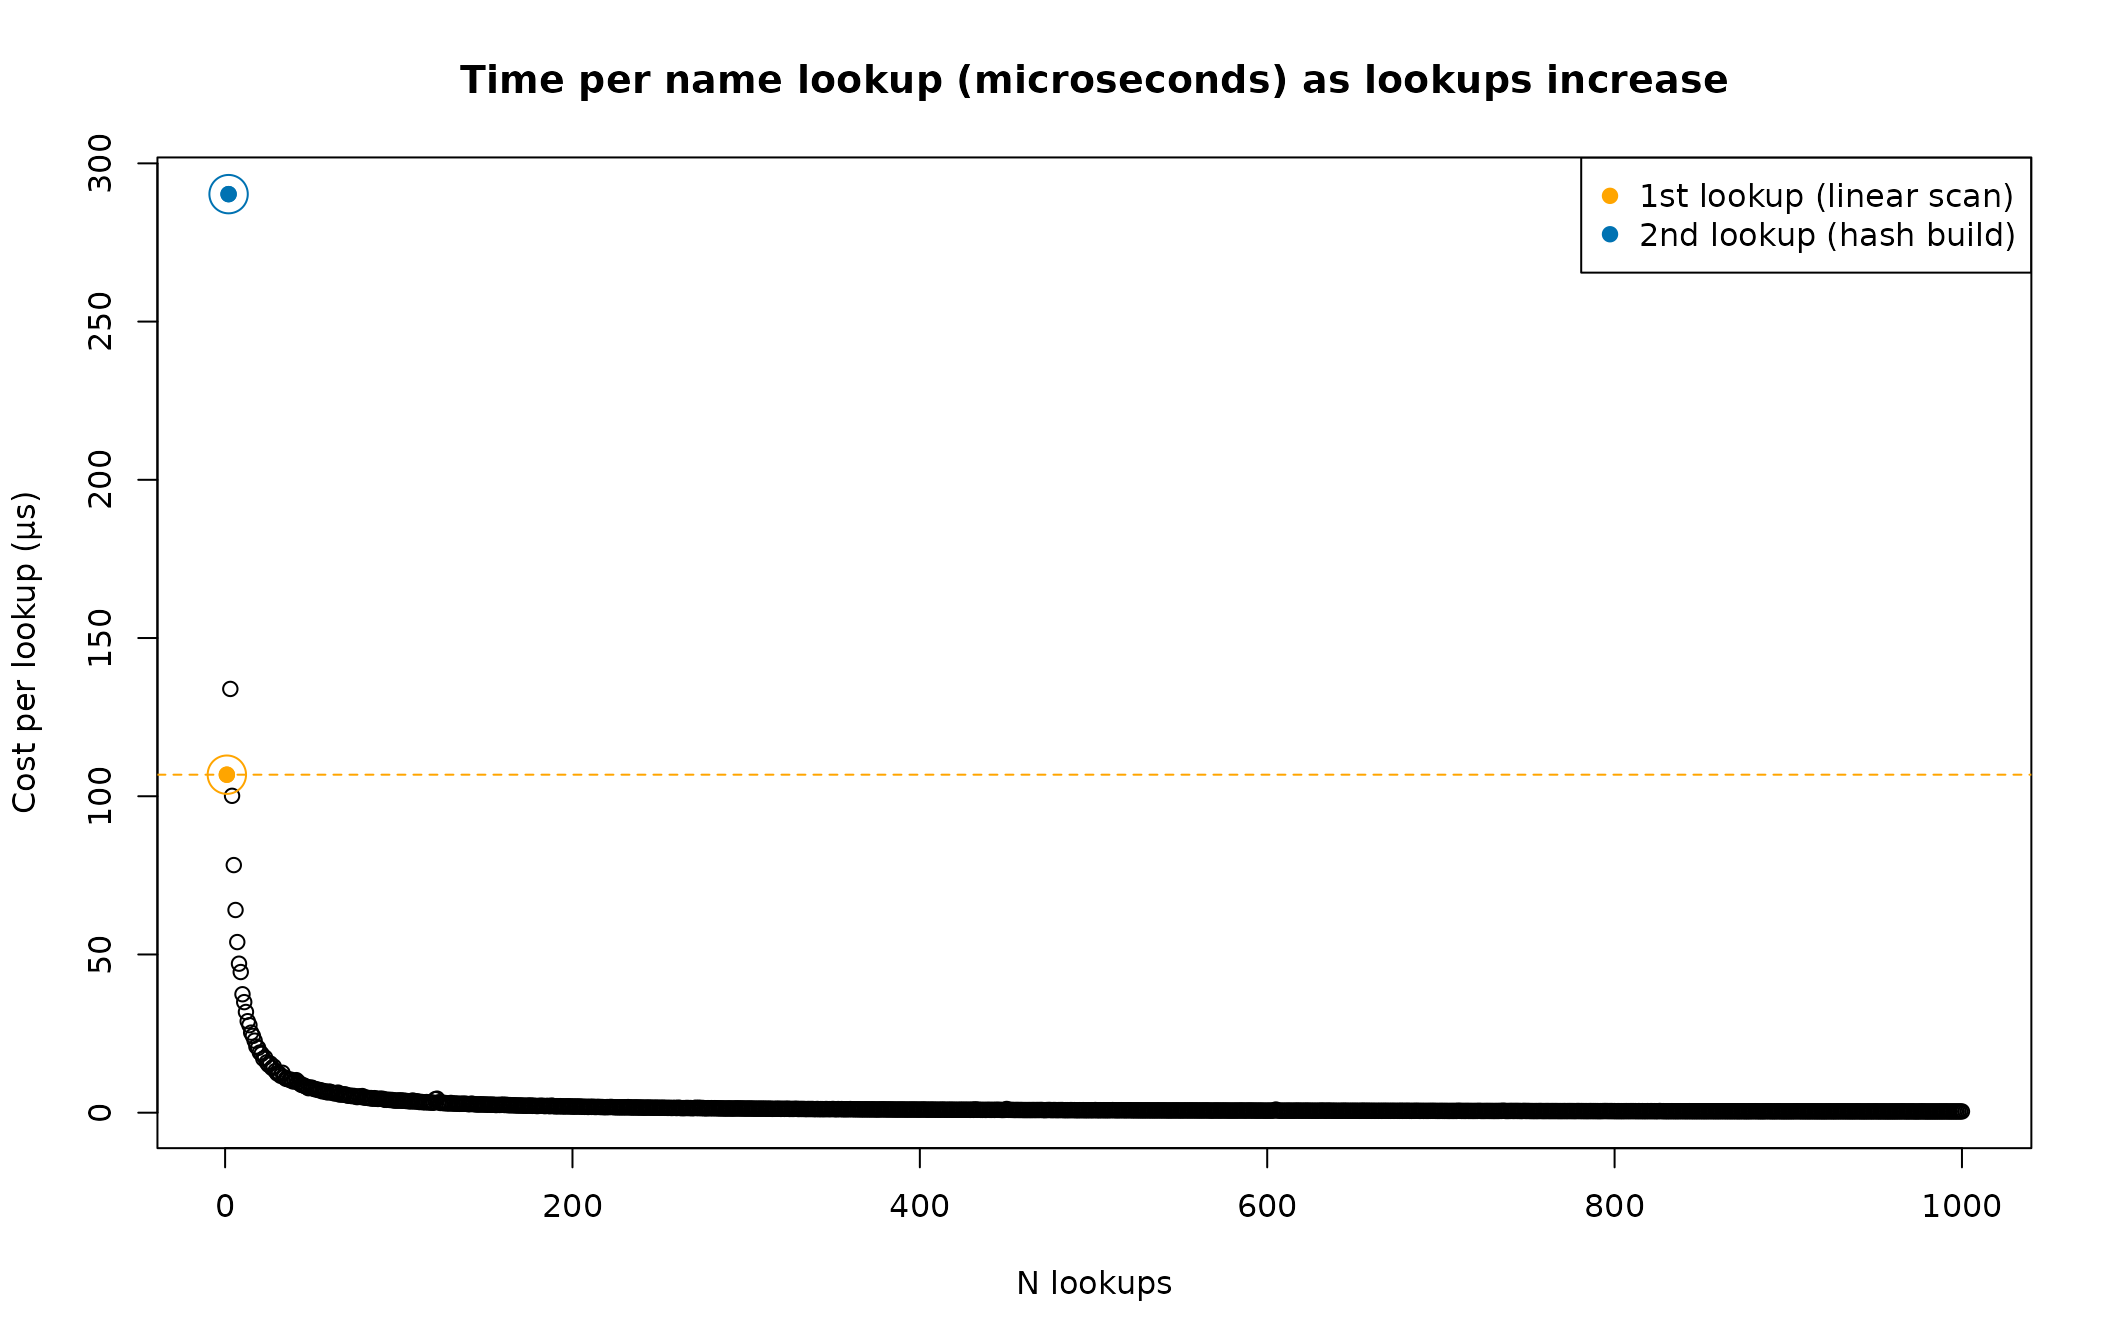
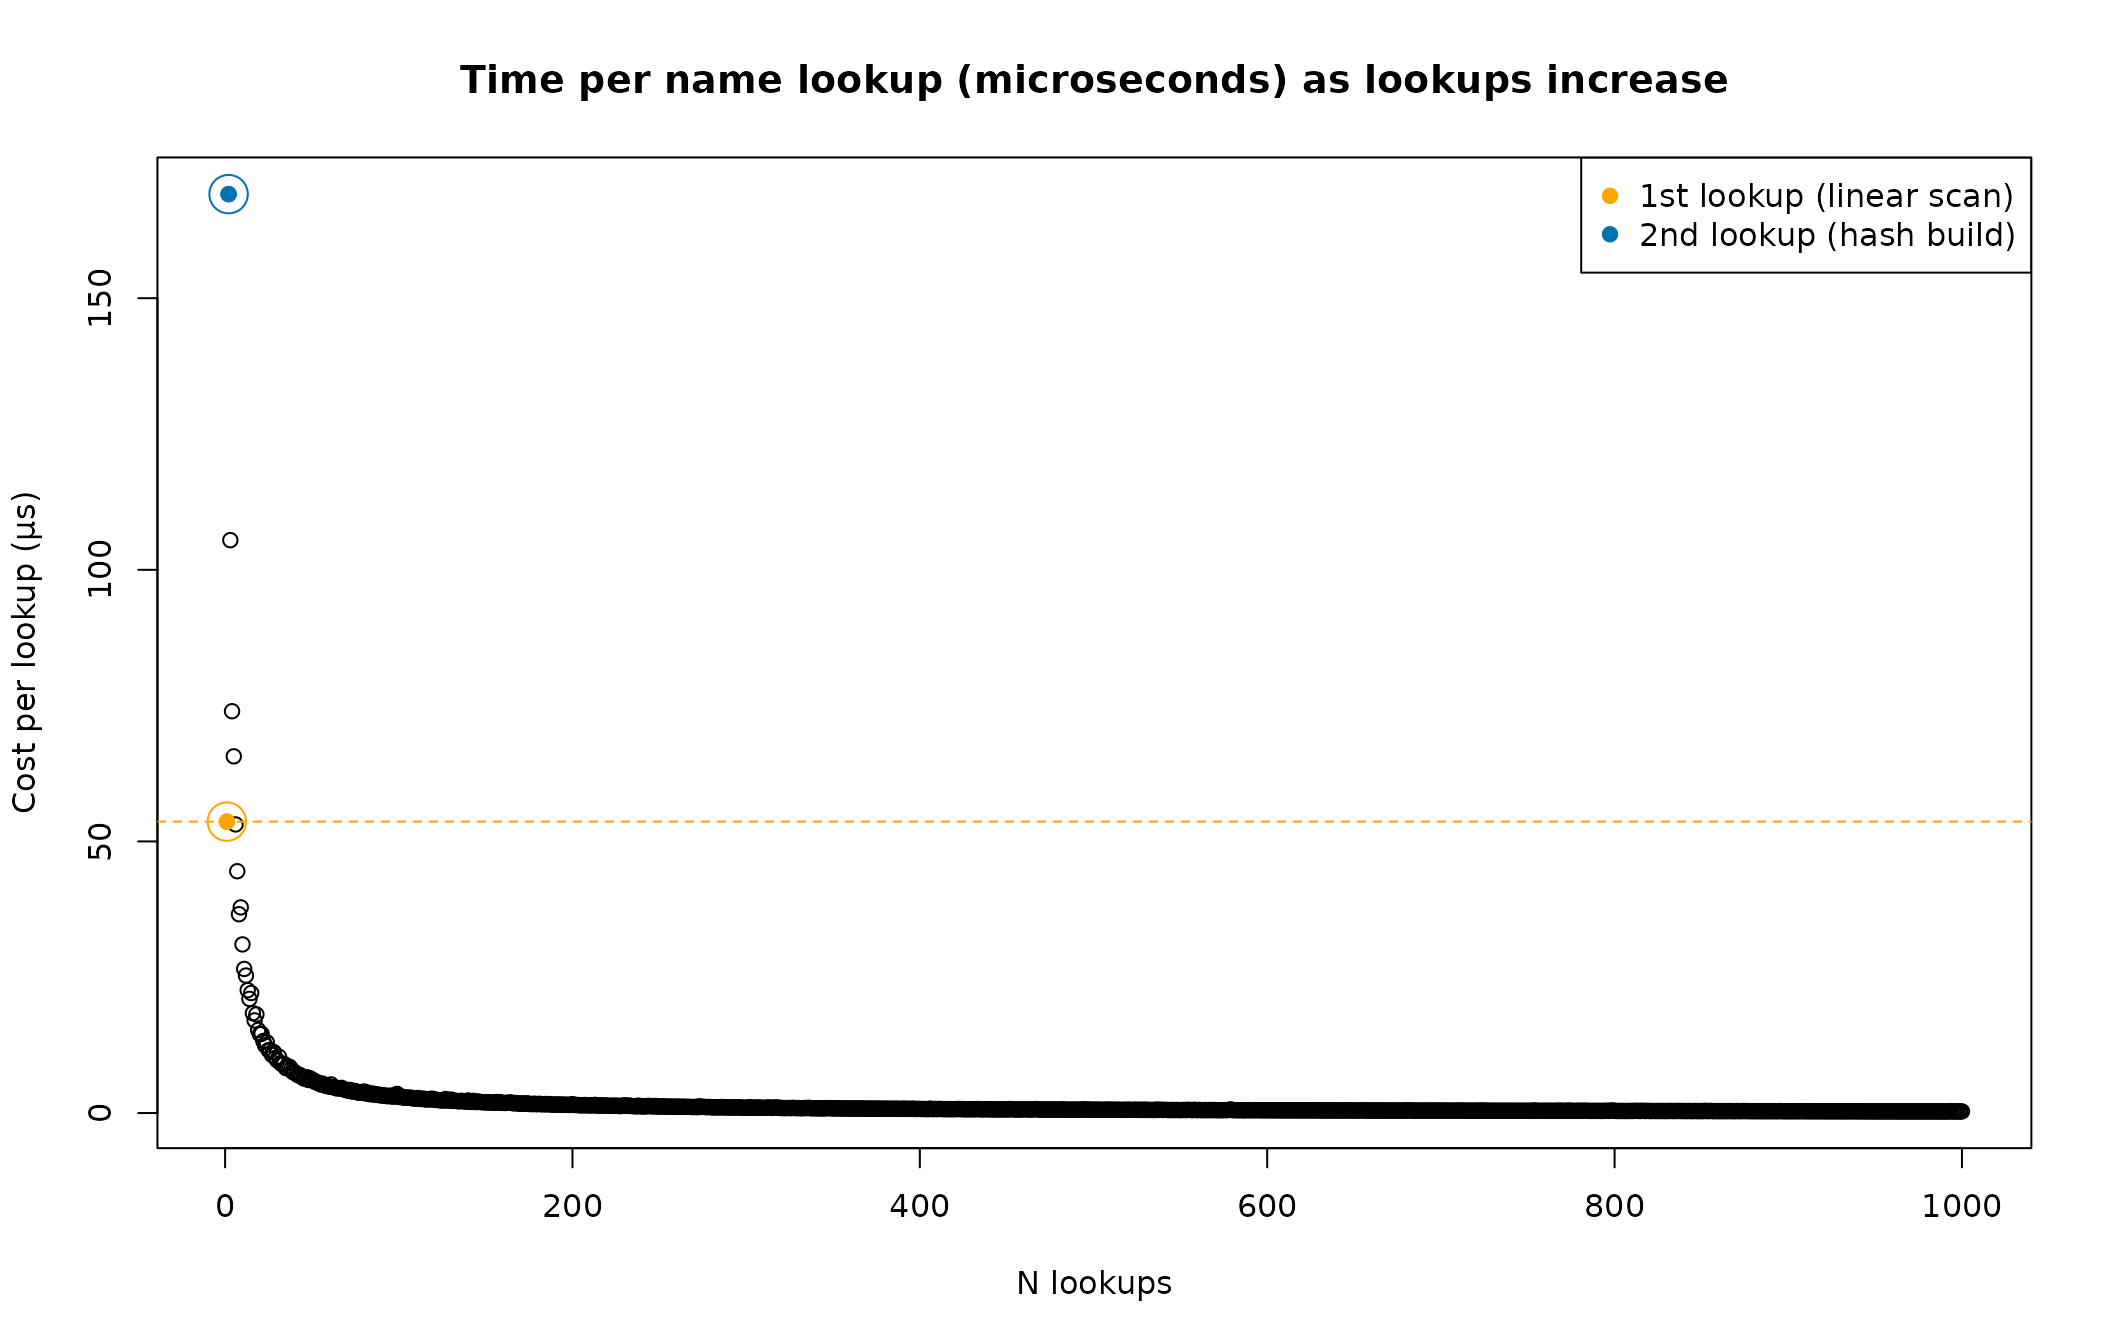
Deploying to gh-pages from @ NicChr/cppally@b370fff97d7429d7e12ec0e2a84aee7f6b70df76 🚀

diff --git a/articles/protection.html b/articles/protection.html
@@ -144,12 +144,12 @@ optimisations.</p>
 <div class="sourceCode" id="cb4"><pre class="downlit sourceCode r">
 <code class="sourceCode R"><span><span class="va">insert_release_cpp11</span> <span class="op">&lt;-</span> <span class="fu"><a href="https://rdrr.io/r/base/lapply.html" class="external-link">replicate</a></span><span class="op">(</span><span class="fl">10</span><span class="op">^</span><span class="fl">4</span>, <span class="fu">bench_protect_insert_release_cpp11</span><span class="op">(</span><span class="fl">10</span><span class="op">^</span><span class="fl">4</span><span class="op">)</span><span class="op">)</span> </span>
 <span><span class="fu"><a href="https://rdrr.io/r/base/mean.html" class="external-link">mean</a></span><span class="op">(</span><span class="va">insert_release_cpp11</span><span class="op">)</span></span>
-<span><span class="co">#&gt; [1] 39.73271</span></span>
+<span><span class="co">#&gt; [1] 36.86888</span></span>
 <span><span class="va">insert_release_cppally</span> <span class="op">&lt;-</span> <span class="fu"><a href="https://rdrr.io/r/base/lapply.html" class="external-link">replicate</a></span><span class="op">(</span><span class="fl">10</span><span class="op">^</span><span class="fl">4</span>, <span class="fu">bench_protect_insert_release_cppally</span><span class="op">(</span><span class="fl">10</span><span class="op">^</span><span class="fl">4</span><span class="op">)</span><span class="op">)</span></span>
 <span><span class="fu"><a href="https://rdrr.io/r/base/mean.html" class="external-link">mean</a></span><span class="op">(</span><span class="va">insert_release_cppally</span><span class="op">)</span></span>
-<span><span class="co">#&gt; [1] 14.09017</span></span></code></pre></div>
-<p>On my machine, cpp11 performs an insert &amp; release every ~40
-nanoseconds. cppally performs better, with ~14 nanoseconds per insert
+<span><span class="co">#&gt; [1] 11.82224</span></span></code></pre></div>
+<p>On my machine, cpp11 performs an insert &amp; release every ~37
+nanoseconds. cppally performs better, with ~12 nanoseconds per insert
 &amp; release.</p>
 <p><strong>Copy benchmark</strong></p>
 <div class="sourceCode" id="cb5"><pre class="sourceCode cpp"><code class="sourceCode cpp"><span id="cb5-1"><a href="#cb5-1" tabindex="-1"></a></span>
@@ -195,12 +195,12 @@ nanoseconds. cppally performs better, with ~14 nanoseconds per insert
 <div class="sourceCode" id="cb7"><pre class="downlit sourceCode r">
 <code class="sourceCode R"><span><span class="va">copy_sexp_cpp11</span> <span class="op">&lt;-</span> <span class="fu"><a href="https://rdrr.io/r/base/lapply.html" class="external-link">replicate</a></span><span class="op">(</span><span class="fl">10</span><span class="op">^</span><span class="fl">4</span>, <span class="fu">bench_protect_copy_cpp11</span><span class="op">(</span><span class="fl">10</span><span class="op">^</span><span class="fl">4</span><span class="op">)</span><span class="op">)</span></span>
 <span><span class="fu"><a href="https://rdrr.io/r/base/mean.html" class="external-link">mean</a></span><span class="op">(</span><span class="va">copy_sexp_cpp11</span><span class="op">)</span></span>
-<span><span class="co">#&gt; [1] 36.09204</span></span>
+<span><span class="co">#&gt; [1] 36.58477</span></span>
 <span><span class="va">copy_sexp_cppally</span> <span class="op">&lt;-</span> <span class="fu"><a href="https://rdrr.io/r/base/lapply.html" class="external-link">replicate</a></span><span class="op">(</span><span class="fl">10</span><span class="op">^</span><span class="fl">4</span>, <span class="fu">bench_protect_copy_cppally</span><span class="op">(</span><span class="fl">10</span><span class="op">^</span><span class="fl">4</span><span class="op">)</span><span class="op">)</span></span>
 <span><span class="fu"><a href="https://rdrr.io/r/base/mean.html" class="external-link">mean</a></span><span class="op">(</span><span class="va">copy_sexp_cppally</span><span class="op">)</span></span>
-<span><span class="co">#&gt; [1] 0.2977218</span></span></code></pre></div>
+<span><span class="co">#&gt; [1] 0.2766459</span></span></code></pre></div>
 <p>In these benchmark results we can see a drastic difference, with
-cpp11 at ~36 ns/copy and cppally at ~0.3 ns/copy.</p>
+cpp11 at ~37 ns/copy and cppally at ~0.3 ns/copy.</p>
 <p><strong>Impact of protection overhead, a real example</strong></p>
 <p>Let’s look at a real example of how much protection overhead can have
 an impact on performance.</p>
@@ -259,21 +259,21 @@ values in a character vector</p>
 <span><span class="co">#&gt; <span style="color: #949494;"># A tibble: 1 × 6</span></span></span>
 <span><span class="co">#&gt;   expression         min   median `itr/sec` mem_alloc `gc/sec`</span></span>
 <span><span class="co">#&gt;   <span style="color: #949494; font-style: italic;">&lt;bch:expr&gt;</span>    <span style="color: #949494; font-style: italic;">&lt;bch:tm&gt;</span> <span style="color: #949494; font-style: italic;">&lt;bch:tm&gt;</span>     <span style="color: #949494; font-style: italic;">&lt;dbl&gt;</span> <span style="color: #949494; font-style: italic;">&lt;bch:byt&gt;</span>    <span style="color: #949494; font-style: italic;">&lt;dbl&gt;</span></span></span>
-<span><span class="co">#&gt; <span style="color: #BCBCBC;">1</span> C_na_count(x)   54.6µs   55.2µs    <span style="text-decoration: underline;">17</span>753.        0B        0</span></span></code></pre></div>
+<span><span class="co">#&gt; <span style="color: #BCBCBC;">1</span> C_na_count(x)   31.3µs   55.6µs    <span style="text-decoration: underline;">17</span>887.        0B        0</span></span></code></pre></div>
 <p><strong>cpp11 results</strong></p>
 <div class="sourceCode" id="cb13"><pre class="downlit sourceCode r">
 <code class="sourceCode R"><span><span class="fu"><a href="https://bench.r-lib.org/reference/mark.html" class="external-link">mark</a></span><span class="op">(</span><span class="fu">cpp11_na_count</span><span class="op">(</span><span class="va">x</span><span class="op">)</span><span class="op">)</span></span>
 <span><span class="co">#&gt; <span style="color: #949494;"># A tibble: 1 × 6</span></span></span>
 <span><span class="co">#&gt;   expression             min   median `itr/sec` mem_alloc `gc/sec`</span></span>
 <span><span class="co">#&gt;   <span style="color: #949494; font-style: italic;">&lt;bch:expr&gt;</span>        <span style="color: #949494; font-style: italic;">&lt;bch:tm&gt;</span> <span style="color: #949494; font-style: italic;">&lt;bch:tm&gt;</span>     <span style="color: #949494; font-style: italic;">&lt;dbl&gt;</span> <span style="color: #949494; font-style: italic;">&lt;bch:byt&gt;</span>    <span style="color: #949494; font-style: italic;">&lt;dbl&gt;</span></span></span>
-<span><span class="co">#&gt; <span style="color: #BCBCBC;">1</span> cpp11_na_count(x)   7.35ms   7.61ms      130.        0B     39.6</span></span></code></pre></div>
+<span><span class="co">#&gt; <span style="color: #BCBCBC;">1</span> cpp11_na_count(x)   5.92ms   7.21ms      140.        0B     46.5</span></span></code></pre></div>
 <p><strong>cppally results</strong></p>
 <div class="sourceCode" id="cb14"><pre class="downlit sourceCode r">
 <code class="sourceCode R"><span><span class="fu"><a href="https://bench.r-lib.org/reference/mark.html" class="external-link">mark</a></span><span class="op">(</span><span class="fu">cppally_na_count</span><span class="op">(</span><span class="va">x</span><span class="op">)</span><span class="op">)</span></span>
 <span><span class="co">#&gt; <span style="color: #949494;"># A tibble: 1 × 6</span></span></span>
 <span><span class="co">#&gt;   expression               min   median `itr/sec` mem_alloc `gc/sec`</span></span>
 <span><span class="co">#&gt;   <span style="color: #949494; font-style: italic;">&lt;bch:expr&gt;</span>          <span style="color: #949494; font-style: italic;">&lt;bch:tm&gt;</span> <span style="color: #949494; font-style: italic;">&lt;bch:tm&gt;</span>     <span style="color: #949494; font-style: italic;">&lt;dbl&gt;</span> <span style="color: #949494; font-style: italic;">&lt;bch:byt&gt;</span>    <span style="color: #949494; font-style: italic;">&lt;dbl&gt;</span></span></span>
-<span><span class="co">#&gt; <span style="color: #BCBCBC;">1</span> cppally_na_count(x)   1.28ms   1.33ms      746.        0B        0</span></span></code></pre></div>
+<span><span class="co">#&gt; <span style="color: #BCBCBC;">1</span> cppally_na_count(x)   1.01ms   1.01ms      983.        0B        0</span></span></code></pre></div>
 <p>Counting values is a simple operation and because of its simplicity,
 the overhead associated with protection will dominate the benchmark. We
 can see that when removing the protection overhead and using the R C API
@@ -315,7 +315,7 @@ non-owning version of <code>r_str</code>.</p>
 <span><span class="co">#&gt; <span style="color: #949494;"># A tibble: 1 × 6</span></span></span>
 <span><span class="co">#&gt;   expression                    min   median `itr/sec` mem_alloc `gc/sec`</span></span>
 <span><span class="co">#&gt;   <span style="color: #949494; font-style: italic;">&lt;bch:expr&gt;</span>               <span style="color: #949494; font-style: italic;">&lt;bch:tm&gt;</span> <span style="color: #949494; font-style: italic;">&lt;bch:tm&gt;</span>     <span style="color: #949494; font-style: italic;">&lt;dbl&gt;</span> <span style="color: #949494; font-style: italic;">&lt;bch:byt&gt;</span>    <span style="color: #949494; font-style: italic;">&lt;dbl&gt;</span></span></span>
-<span><span class="co">#&gt; <span style="color: #BCBCBC;">1</span> cppally_fast_na_count(x)   54.7µs   55.3µs    <span style="text-decoration: underline;">17</span>739.        0B        0</span></span></code></pre></div>
+<span><span class="co">#&gt; <span style="color: #BCBCBC;">1</span> cppally_fast_na_count(x)   31.9µs   55.7µs    <span style="text-decoration: underline;">17</span>827.        0B        0</span></span></code></pre></div>
 <p>Looking at the benchmark results, we have effectively eliminated the
 protection overhead and the median execution time is much closer to that
 of the R C API.</p>
@@ -342,7 +342,7 @@ context.</p>
 <span><span class="co">#&gt; <span style="color: #949494;"># A tibble: 1 × 6</span></span></span>
 <span><span class="co">#&gt;   expression                       min   median `itr/sec` mem_alloc `gc/sec`</span></span>
 <span><span class="co">#&gt;   <span style="color: #949494; font-style: italic;">&lt;bch:expr&gt;</span>                  <span style="color: #949494; font-style: italic;">&lt;bch:tm&gt;</span> <span style="color: #949494; font-style: italic;">&lt;bch:tm&gt;</span>     <span style="color: #949494; font-style: italic;">&lt;dbl&gt;</span> <span style="color: #949494; font-style: italic;">&lt;bch:byt&gt;</span>    <span style="color: #949494; font-style: italic;">&lt;dbl&gt;</span></span></span>
-<span><span class="co">#&gt; <span style="color: #BCBCBC;">1</span> cppally_fast_na_count_v2(x)   58.3µs   58.6µs    <span style="text-decoration: underline;">16</span>630.        0B        0</span></span></code></pre></div>
+<span><span class="co">#&gt; <span style="color: #BCBCBC;">1</span> cppally_fast_na_count_v2(x)   55.4µs   55.7µs    <span style="text-decoration: underline;">17</span>655.        0B        0</span></span></code></pre></div>
 <p>The results are similar to that of
 <code>cppally_fast_na_count()</code>.</p>
 </div>

diff --git a/articles/vector_name_hashing.html b/articles/vector_name_hashing.html
@@ -120,12 +120,12 @@ index</p>
 <span><span class="co">#&gt; <span style="color: #949494;"># A tibble: 1 × 6</span></span></span>
 <span><span class="co">#&gt;   expression      min   median `itr/sec` mem_alloc `gc/sec`</span></span>
 <span><span class="co">#&gt;   <span style="color: #949494; font-style: italic;">&lt;bch:expr&gt;</span> <span style="color: #949494; font-style: italic;">&lt;bch:tm&gt;</span> <span style="color: #949494; font-style: italic;">&lt;bch:tm&gt;</span>     <span style="color: #949494; font-style: italic;">&lt;dbl&gt;</span> <span style="color: #949494; font-style: italic;">&lt;bch:byt&gt;</span>    <span style="color: #949494; font-style: italic;">&lt;dbl&gt;</span></span></span>
-<span><span class="co">#&gt; <span style="color: #BCBCBC;">1</span> large[[1]]    122ns    133ns  6<span style="text-decoration: underline;">338</span>882.        0B     634.</span></span>
+<span><span class="co">#&gt; <span style="color: #BCBCBC;">1</span> large[[1]]   89.9ns    101ns  8<span style="text-decoration: underline;">148</span>891.        0B     815.</span></span>
 <span><span class="fu"><a href="https://bench.r-lib.org/reference/mark.html" class="external-link">mark</a></span><span class="op">(</span><span class="va">large</span><span class="op">[[</span><span class="fu"><a href="https://rdrr.io/r/base/length.html" class="external-link">length</a></span><span class="op">(</span><span class="va">large</span><span class="op">)</span><span class="op">]</span><span class="op">]</span><span class="op">)</span></span>
 <span><span class="co">#&gt; <span style="color: #949494;"># A tibble: 1 × 6</span></span></span>
 <span><span class="co">#&gt;   expression                  min   median `itr/sec` mem_alloc `gc/sec`</span></span>
 <span><span class="co">#&gt;   <span style="color: #949494; font-style: italic;">&lt;bch:expr&gt;</span>             <span style="color: #949494; font-style: italic;">&lt;bch:tm&gt;</span> <span style="color: #949494; font-style: italic;">&lt;bch:tm&gt;</span>     <span style="color: #949494; font-style: italic;">&lt;dbl&gt;</span> <span style="color: #949494; font-style: italic;">&lt;bch:byt&gt;</span>    <span style="color: #949494; font-style: italic;">&lt;dbl&gt;</span></span></span>
-<span><span class="co">#&gt; <span style="color: #BCBCBC;">1</span> large[[length(large)]]    204ns    216ns  4<span style="text-decoration: underline;">005</span>935.        0B        0</span></span></code></pre></div>
+<span><span class="co">#&gt; <span style="color: #BCBCBC;">1</span> large[[length(large)]]    160ns    181ns  4<span style="text-decoration: underline;">719</span>567.        0B        0</span></span></code></pre></div>
 <p>Since R scans the names each time, lookup by name is O(n) and can be
 slow if names happen to be near the end of the vector</p>
 <div class="sourceCode" id="cb6"><pre class="downlit sourceCode r">
@@ -136,8 +136,8 @@ slow if names happen to be near the end of the vector</p>
 <span><span class="co">#&gt; <span style="color: #949494;"># A tibble: 2 × 6</span></span></span>
 <span><span class="co">#&gt;   expression      min   median `itr/sec` mem_alloc `gc/sec`</span></span>
 <span><span class="co">#&gt;   <span style="color: #949494; font-style: italic;">&lt;bch:expr&gt;</span> <span style="color: #949494; font-style: italic;">&lt;bch:tm&gt;</span> <span style="color: #949494; font-style: italic;">&lt;bch:tm&gt;</span>     <span style="color: #949494; font-style: italic;">&lt;dbl&gt;</span> <span style="color: #949494; font-style: italic;">&lt;bch:byt&gt;</span>    <span style="color: #949494; font-style: italic;">&lt;dbl&gt;</span></span></span>
-<span><span class="co">#&gt; <span style="color: #BCBCBC;">1</span> by_name       138ns    149ns  5<span style="text-decoration: underline;">616</span>387.        0B     562.</span></span>
-<span><span class="co">#&gt; <span style="color: #BCBCBC;">2</span> by_index      126ns    140ns  6<span style="text-decoration: underline;">285</span>018.        0B       0</span></span>
+<span><span class="co">#&gt; <span style="color: #BCBCBC;">1</span> by_name       100ns    120ns  7<span style="text-decoration: underline;">085</span>576.        0B     709.</span></span>
+<span><span class="co">#&gt; <span style="color: #BCBCBC;">2</span> by_index       90ns    101ns  8<span style="text-decoration: underline;">276</span>457.        0B       0</span></span>
 <span></span>
 <span><span class="fu"><a href="https://bench.r-lib.org/reference/mark.html" class="external-link">mark</a></span><span class="op">(</span></span>
 <span>    by_name <span class="op">=</span> <span class="va">large</span><span class="op">[[</span><span class="st">"name_100000"</span><span class="op">]</span><span class="op">]</span>, </span>
@@ -146,8 +146,8 @@ slow if names happen to be near the end of the vector</p>
 <span><span class="co">#&gt; <span style="color: #949494;"># A tibble: 2 × 6</span></span></span>
 <span><span class="co">#&gt;   expression      min   median `itr/sec` mem_alloc `gc/sec`</span></span>
 <span><span class="co">#&gt;   <span style="color: #949494; font-style: italic;">&lt;bch:expr&gt;</span> <span style="color: #949494; font-style: italic;">&lt;bch:tm&gt;</span> <span style="color: #949494; font-style: italic;">&lt;bch:tm&gt;</span>     <span style="color: #949494; font-style: italic;">&lt;dbl&gt;</span> <span style="color: #949494; font-style: italic;">&lt;bch:byt&gt;</span>    <span style="color: #949494; font-style: italic;">&lt;dbl&gt;</span></span></span>
-<span><span class="co">#&gt; <span style="color: #BCBCBC;">1</span> by_name       528µs    547µs     <span style="text-decoration: underline;">1</span>815.        0B        0</span></span>
-<span><span class="co">#&gt; <span style="color: #BCBCBC;">2</span> by_index      126ns    139ns  6<span style="text-decoration: underline;">444</span>368.        0B        0</span></span></code></pre></div>
+<span><span class="co">#&gt; <span style="color: #BCBCBC;">1</span> by_name       462µs    468µs     <span style="text-decoration: underline;">2</span>128.        0B        0</span></span>
+<span><span class="co">#&gt; <span style="color: #BCBCBC;">2</span> by_index       90ns    110ns  7<span style="text-decoration: underline;">634</span>232.        0B        0</span></span></code></pre></div>
 <p>If we created a hash table of names-values, we could speedup repeated
 lookups</p>
 <div class="sourceCode" id="cb7"><pre class="downlit sourceCode r">
@@ -171,9 +171,9 @@ hashed name</p>
 <span><span class="co">#&gt; <span style="color: #949494;"># A tibble: 3 × 6</span></span></span>
 <span><span class="co">#&gt;   expression          min   median `itr/sec` mem_alloc `gc/sec`</span></span>
 <span><span class="co">#&gt;   <span style="color: #949494; font-style: italic;">&lt;bch:expr&gt;</span>     <span style="color: #949494; font-style: italic;">&lt;bch:tm&gt;</span> <span style="color: #949494; font-style: italic;">&lt;bch:tm&gt;</span>     <span style="color: #949494; font-style: italic;">&lt;dbl&gt;</span> <span style="color: #949494; font-style: italic;">&lt;bch:byt&gt;</span>    <span style="color: #949494; font-style: italic;">&lt;dbl&gt;</span></span></span>
-<span><span class="co">#&gt; <span style="color: #BCBCBC;">1</span> by_name           530µs    550µs     <span style="text-decoration: underline;">1</span>803.        0B        0</span></span>
-<span><span class="co">#&gt; <span style="color: #BCBCBC;">2</span> by_index          126ns    139ns  6<span style="text-decoration: underline;">023</span>556.        0B        0</span></span>
-<span><span class="co">#&gt; <span style="color: #BCBCBC;">3</span> by_hashed_name    795ns    847ns   <span style="text-decoration: underline;">860</span>662.        0B        0</span></span></code></pre></div>
+<span><span class="co">#&gt; <span style="color: #BCBCBC;">1</span> by_name         461.4µs    468µs     <span style="text-decoration: underline;">2</span>129.        0B        0</span></span>
+<span><span class="co">#&gt; <span style="color: #BCBCBC;">2</span> by_index         89.9ns    110ns  8<span style="text-decoration: underline;">135</span>640.        0B        0</span></span>
+<span><span class="co">#&gt; <span style="color: #BCBCBC;">3</span> by_hashed_name    651ns    701ns   <span style="text-decoration: underline;">949</span>946.        0B        0</span></span></code></pre></div>
 <p>That worked! Extracting the value associated with the last name using
 the hash table was almost as fast as looking it up by location.</p>
 <p>cppally uses this same approach internally, attaching a lazy hash map
@@ -305,8 +305,8 @@ R and C++</p>
 <span><span class="co">#&gt; <span style="color: #949494;"># A tibble: 2 × 6</span></span></span>
 <span><span class="co">#&gt;   expression              min   median `itr/sec` mem_alloc `gc/sec`</span></span>
 <span><span class="co">#&gt;   <span style="color: #949494; font-style: italic;">&lt;bch:expr&gt;</span>         <span style="color: #949494; font-style: italic;">&lt;bch:tm&gt;</span> <span style="color: #949494; font-style: italic;">&lt;bch:tm&gt;</span>     <span style="color: #949494; font-style: italic;">&lt;dbl&gt;</span> <span style="color: #949494; font-style: italic;">&lt;bch:byt&gt;</span>    <span style="color: #949494; font-style: italic;">&lt;dbl&gt;</span></span></span>
-<span><span class="co">#&gt; <span style="color: #BCBCBC;">1</span> cppally_one_lookup   31.5µs   32.6µs    <span style="text-decoration: underline;">29</span>662.        0B        0</span></span>
-<span><span class="co">#&gt; <span style="color: #BCBCBC;">2</span> base_one_lookup     532.5µs  554.8µs     <span style="text-decoration: underline;">1</span>793.    21.6KB        0</span></span></code></pre></div>
+<span><span class="co">#&gt; <span style="color: #BCBCBC;">1</span> cppally_one_lookup     29µs   29.6µs    <span style="text-decoration: underline;">32</span>697.        0B        0</span></span>
+<span><span class="co">#&gt; <span style="color: #BCBCBC;">2</span> base_one_lookup       438µs    450µs     <span style="text-decoration: underline;">2</span>199.    21.6KB        0</span></span></code></pre></div>
 <p>While I’m not sure why cppally’s linear scan is faster than R’s, it
 may be due to the fact that direct data access is used to compare
 elements instead of <code>STRING_ELT()</code></p>

diff --git a/reference/cpp_source.html b/reference/cpp_source.html
@@ -304,13 +304,13 @@ the <code>[[cppally::register]]</code> tagged functions to R. <br><code>cpp_eval
 <span class="r-out co"><span class="r-pr">#&gt;</span> <span style="color: #949494;"># A tibble: 1 × 13</span></span>
 <span class="r-out co"><span class="r-pr">#&gt;</span>   expression      min median `itr/sec` mem_alloc `gc/sec` n_itr  n_gc total_time</span>
 <span class="r-out co"><span class="r-pr">#&gt;</span>   <span style="color: #949494; font-style: italic;">&lt;bch:expr&gt;</span>   <span style="color: #949494; font-style: italic;">&lt;bch:&gt;</span> <span style="color: #949494; font-style: italic;">&lt;bch:&gt;</span>     <span style="color: #949494; font-style: italic;">&lt;dbl&gt;</span> <span style="color: #949494; font-style: italic;">&lt;bch:byt&gt;</span>    <span style="color: #949494; font-style: italic;">&lt;dbl&gt;</span> <span style="color: #949494; font-style: italic;">&lt;int&gt;</span> <span style="color: #949494; font-style: italic;">&lt;dbl&gt;</span>   <span style="color: #949494; font-style: italic;">&lt;bch:tm&gt;</span></span>
-<span class="r-out co"><span class="r-pr">#&gt;</span> <span style="color: #BCBCBC;">1</span> last_altrep… 3.71µs 4.64µs   <span style="text-decoration: underline;">208</span>803.    3.18KB        0 <span style="text-decoration: underline;">10</span>000     0     47.9ms</span>
+<span class="r-out co"><span class="r-pr">#&gt;</span> <span style="color: #BCBCBC;">1</span> last_altrep… 2.98µs  4.4µs   <span style="text-decoration: underline;">222</span>343.    3.18KB        0 <span style="text-decoration: underline;">10</span>000     0       45ms</span>
 <span class="r-out co"><span class="r-pr">#&gt;</span> <span style="color: #949494;"># ℹ 4 more variables: result &lt;list&gt;, memory &lt;list&gt;, time &lt;list&gt;, gc &lt;list&gt;</span></span>
 <span class="r-in"><span><span class="fu"><a href="https://bench.r-lib.org/reference/mark.html" class="external-link">mark</a></span><span class="op">(</span><span class="fu">last_altrep_unaware</span><span class="op">(</span><span class="fl">1</span><span class="op">:</span><span class="fl">10</span><span class="op">^</span><span class="fl">5</span><span class="op">)</span><span class="op">)</span> <span class="co"># Materialises full vector</span></span></span>
 <span class="r-out co"><span class="r-pr">#&gt;</span> <span style="color: #949494;"># A tibble: 1 × 13</span></span>
 <span class="r-out co"><span class="r-pr">#&gt;</span>   expression      min median `itr/sec` mem_alloc `gc/sec` n_itr  n_gc total_time</span>
 <span class="r-out co"><span class="r-pr">#&gt;</span>   <span style="color: #949494; font-style: italic;">&lt;bch:expr&gt;</span>   <span style="color: #949494; font-style: italic;">&lt;bch:&gt;</span> <span style="color: #949494; font-style: italic;">&lt;bch:&gt;</span>     <span style="color: #949494; font-style: italic;">&lt;dbl&gt;</span> <span style="color: #949494; font-style: italic;">&lt;bch:byt&gt;</span>    <span style="color: #949494; font-style: italic;">&lt;dbl&gt;</span> <span style="color: #949494; font-style: italic;">&lt;int&gt;</span> <span style="color: #949494; font-style: italic;">&lt;dbl&gt;</span>   <span style="color: #949494; font-style: italic;">&lt;bch:tm&gt;</span></span>
-<span class="r-out co"><span class="r-pr">#&gt;</span> <span style="color: #BCBCBC;">1</span> last_altrep… 47.6µs 52.2µs    <span style="text-decoration: underline;">16</span>071.     391KB     127.  <span style="text-decoration: underline;">3</span>668    29      228ms</span>
+<span class="r-out co"><span class="r-pr">#&gt;</span> <span style="color: #BCBCBC;">1</span> last_altrep… 31.2µs 31.9µs    <span style="text-decoration: underline;">26</span>057.     391KB     207.  <span style="text-decoration: underline;">4</span>159    33      160ms</span>
 <span class="r-out co"><span class="r-pr">#&gt;</span> <span style="color: #949494;"># ℹ 4 more variables: result &lt;list&gt;, memory &lt;list&gt;, time &lt;list&gt;, gc &lt;list&gt;</span></span>
 <span class="r-in"><span></span></span>
 <span class="r-in"><span><span class="co">### Copy-on-modify ###</span></span></span>
@@ -346,7 +346,7 @@ the <code>[[cppally::register]]</code> tagged functions to R. <br><code>cpp_eval
 <span class="r-out co"><span class="r-pr">#&gt;</span> <span style="color: #949494;"># A tibble: 1 × 13</span></span>
 <span class="r-out co"><span class="r-pr">#&gt;</span>   expression      min median `itr/sec` mem_alloc `gc/sec` n_itr  n_gc total_time</span>
 <span class="r-out co"><span class="r-pr">#&gt;</span>   <span style="color: #949494; font-style: italic;">&lt;bch:expr&gt;</span> <span style="color: #949494; font-style: italic;">&lt;bch:tm&gt;</span> <span style="color: #949494; font-style: italic;">&lt;bch:&gt;</span>     <span style="color: #949494; font-style: italic;">&lt;dbl&gt;</span> <span style="color: #949494; font-style: italic;">&lt;bch:byt&gt;</span>    <span style="color: #949494; font-style: italic;">&lt;dbl&gt;</span> <span style="color: #949494; font-style: italic;">&lt;int&gt;</span> <span style="color: #949494; font-style: italic;">&lt;dbl&gt;</span>   <span style="color: #949494; font-style: italic;">&lt;bch:tm&gt;</span></span>
-<span class="r-out co"><span class="r-pr">#&gt;</span> <span style="color: #BCBCBC;">1</span> reverse(x)    380µs  499µs     <span style="text-decoration: underline;">2</span>105.     391KB     18.7   786     7      373ms</span>
+<span class="r-out co"><span class="r-pr">#&gt;</span> <span style="color: #BCBCBC;">1</span> reverse(x)    342µs  372µs     <span style="text-decoration: underline;">2</span>600.     391KB     21.4  <span style="text-decoration: underline;">1</span>215    10      467ms</span>
 <span class="r-out co"><span class="r-pr">#&gt;</span> <span style="color: #949494;"># ℹ 4 more variables: result &lt;list&gt;, memory &lt;list&gt;, time &lt;list&gt;, gc &lt;list&gt;</span></span>
 <span class="r-in"><span></span></span>
 <span class="r-in"><span><span class="co"># The cppally preferred approach is to allocate a fresh vector or copy the</span></span></span>
@@ -371,11 +371,11 @@ the <code>[[cppally::register]]</code> tagged functions to R. <br><code>cpp_eval
 <span class="r-in"><span>  cppally_no_copy_on_modify_reverse <span class="op">=</span> <span class="fu">cppally_reverse</span><span class="op">(</span><span class="va">x</span><span class="op">)</span></span></span>
 <span class="r-in"><span><span class="op">)</span></span></span>
 <span class="r-out co"><span class="r-pr">#&gt;</span> <span style="color: #949494;"># A tibble: 3 × 13</span></span>
-<span class="r-out co"><span class="r-pr">#&gt;</span>   expression      min median `itr/sec` mem_alloc `gc/sec` n_itr  n_gc total_time</span>
-<span class="r-out co"><span class="r-pr">#&gt;</span>   <span style="color: #949494; font-style: italic;">&lt;bch:expr&gt;</span>  <span style="color: #949494; font-style: italic;">&lt;bch:t&gt;</span> <span style="color: #949494; font-style: italic;">&lt;bch:&gt;</span>     <span style="color: #949494; font-style: italic;">&lt;dbl&gt;</span> <span style="color: #949494; font-style: italic;">&lt;bch:byt&gt;</span>    <span style="color: #949494; font-style: italic;">&lt;dbl&gt;</span> <span style="color: #949494; font-style: italic;">&lt;int&gt;</span> <span style="color: #949494; font-style: italic;">&lt;dbl&gt;</span>   <span style="color: #949494; font-style: italic;">&lt;bch:tm&gt;</span></span>
-<span class="r-out co"><span class="r-pr">#&gt;</span> <span style="color: #BCBCBC;">1</span> r_reverse   227.5µs  239µs     <span style="text-decoration: underline;">4</span>004.     781KB     62.8  <span style="text-decoration: underline;">1</span>340    21      335ms</span>
-<span class="r-out co"><span class="r-pr">#&gt;</span> <span style="color: #BCBCBC;">2</span> cppally_co… 379.9µs  399µs     <span style="text-decoration: underline;">2</span>306.     391KB     17.2  <span style="text-decoration: underline;">1</span>072     8      465ms</span>
-<span class="r-out co"><span class="r-pr">#&gt;</span> <span style="color: #BCBCBC;">3</span> cppally_no…  77.6µs  194µs     <span style="text-decoration: underline;">5</span>747.     391KB     45.8  <span style="text-decoration: underline;">2</span>258    18      393ms</span>
+<span class="r-out co"><span class="r-pr">#&gt;</span>   expression     min  median `itr/sec` mem_alloc `gc/sec` n_itr  n_gc total_time</span>
+<span class="r-out co"><span class="r-pr">#&gt;</span>   <span style="color: #949494; font-style: italic;">&lt;bch:expr&gt;</span> <span style="color: #949494; font-style: italic;">&lt;bch:t&gt;</span> <span style="color: #949494; font-style: italic;">&lt;bch:t&gt;</span>     <span style="color: #949494; font-style: italic;">&lt;dbl&gt;</span> <span style="color: #949494; font-style: italic;">&lt;bch:byt&gt;</span>    <span style="color: #949494; font-style: italic;">&lt;dbl&gt;</span> <span style="color: #949494; font-style: italic;">&lt;int&gt;</span> <span style="color: #949494; font-style: italic;">&lt;dbl&gt;</span>   <span style="color: #949494; font-style: italic;">&lt;bch:tm&gt;</span></span>
+<span class="r-out co"><span class="r-pr">#&gt;</span> <span style="color: #BCBCBC;">1</span> r_reverse  177.6µs 186.3µs     <span style="text-decoration: underline;">5</span>141.     781KB     83.8  <span style="text-decoration: underline;">1</span>473    24      287ms</span>
+<span class="r-out co"><span class="r-pr">#&gt;</span> <span style="color: #BCBCBC;">2</span> cppally_c… 341.4µs 371.8µs     <span style="text-decoration: underline;">2</span>666.     391KB     19.1  <span style="text-decoration: underline;">1</span>257     9      471ms</span>
+<span class="r-out co"><span class="r-pr">#&gt;</span> <span style="color: #BCBCBC;">3</span> cppally_n…  58.2µs  62.4µs     <span style="text-decoration: underline;">9</span>211.     391KB     73.6  <span style="text-decoration: underline;">3</span>628    29      394ms</span>
 <span class="r-out co"><span class="r-pr">#&gt;</span> <span style="color: #949494;"># ℹ 4 more variables: result &lt;list&gt;, memory &lt;list&gt;, time &lt;list&gt;, gc &lt;list&gt;</span></span>
 <span class="r-in"><span><span class="co"># }</span></span></span>
 <span class="r-in"><span></span></span>

diff --git a/articles/cppally.html b/articles/cppally.html
@@ -1227,8 +1227,8 @@ of number of unique values.</p>
 <span><span class="co">#&gt; <span style="color: #949494;"># A tibble: 2 × 6</span></span></span>
 <span><span class="co">#&gt;   expression            min   median `itr/sec` mem_alloc `gc/sec`</span></span>
 <span><span class="co">#&gt;   <span style="color: #949494; font-style: italic;">&lt;bch:expr&gt;</span>       <span style="color: #949494; font-style: italic;">&lt;bch:tm&gt;</span> <span style="color: #949494; font-style: italic;">&lt;bch:tm&gt;</span>     <span style="color: #949494; font-style: italic;">&lt;dbl&gt;</span> <span style="color: #949494; font-style: italic;">&lt;bch:byt&gt;</span>    <span style="color: #949494; font-style: italic;">&lt;dbl&gt;</span></span></span>
-<span><span class="co">#&gt; <span style="color: #BCBCBC;">1</span> base_n_unique      1.11ms   1.15ms      867.    1.38MB     25.5</span></span>
-<span><span class="co">#&gt; <span style="color: #BCBCBC;">2</span> cppally_n_unique 257.15µs 262.77µs     <span style="text-decoration: underline;">3</span>767.        0B      0</span></span></code></pre></div>
+<span><span class="co">#&gt; <span style="color: #BCBCBC;">1</span> base_n_unique       928µs   1.09ms      926.    1.38MB     25.5</span></span>
+<span><span class="co">#&gt; <span style="color: #BCBCBC;">2</span> cppally_n_unique    239µs 240.23µs     <span style="text-decoration: underline;">4</span>108.        0B      0</span></span></code></pre></div>
 <p>More useful sugar functions</p>
 <ul>
 <li><p><code><a href="https://rdrr.io/r/base/unique.html" class="external-link">unique()</a></code> - Like R’s <code><a href="https://rdrr.io/r/base/unique.html" class="external-link">unique()</a></code> but with a

diff --git a/articles/protection.md b/articles/protection.md
@@ -88,14 +88,14 @@ double bench_protect_insert_release_cppally(int n) {
 
 insert_release_cpp11 <- replicate(10^4, bench_protect_insert_release_cpp11(10^4)) 
 mean(insert_release_cpp11)
-#> [1] 39.73271
+#> [1] 36.86888
 insert_release_cppally <- replicate(10^4, bench_protect_insert_release_cppally(10^4))
 mean(insert_release_cppally)
-#> [1] 14.09017
+#> [1] 11.82224
 ```
 
-On my machine, cpp11 performs an insert & release every ~40 nanoseconds.
-cppally performs better, with ~14 nanoseconds per insert & release.
+On my machine, cpp11 performs an insert & release every ~37 nanoseconds.
+cppally performs better, with ~12 nanoseconds per insert & release.
 
 **Copy benchmark**
 
@@ -150,14 +150,14 @@ double bench_protect_copy_cppally(int n) {
 
 copy_sexp_cpp11 <- replicate(10^4, bench_protect_copy_cpp11(10^4))
 mean(copy_sexp_cpp11)
-#> [1] 36.09204
+#> [1] 36.58477
 copy_sexp_cppally <- replicate(10^4, bench_protect_copy_cppally(10^4))
 mean(copy_sexp_cppally)
-#> [1] 0.2977218
+#> [1] 0.2766459
 ```
 
 In these benchmark results we can see a drastic difference, with cpp11
-at ~36 ns/copy and cppally at ~0.3 ns/copy.
+at ~37 ns/copy and cppally at ~0.3 ns/copy.
 
 **Impact of protection overhead, a real example**
 
@@ -233,7 +233,7 @@ mark(C_na_count(x))
 #> # A tibble: 1 × 6
 #>   expression         min   median `itr/sec` mem_alloc `gc/sec`
 #>   <bch:expr>    <bch:tm> <bch:tm>     <dbl> <bch:byt>    <dbl>
-#> 1 C_na_count(x)   54.6µs   55.2µs    17753.        0B        0
+#> 1 C_na_count(x)   31.3µs   55.6µs    17887.        0B        0
 ```
 
 **cpp11 results**
@@ -244,7 +244,7 @@ mark(cpp11_na_count(x))
 #> # A tibble: 1 × 6
 #>   expression             min   median `itr/sec` mem_alloc `gc/sec`
 #>   <bch:expr>        <bch:tm> <bch:tm>     <dbl> <bch:byt>    <dbl>
-#> 1 cpp11_na_count(x)   7.35ms   7.61ms      130.        0B     39.6
+#> 1 cpp11_na_count(x)   5.92ms   7.21ms      140.        0B     46.5
 ```
 
 **cppally results**
@@ -255,7 +255,7 @@ mark(cppally_na_count(x))
 #> # A tibble: 1 × 6
 #>   expression               min   median `itr/sec` mem_alloc `gc/sec`
 #>   <bch:expr>          <bch:tm> <bch:tm>     <dbl> <bch:byt>    <dbl>
-#> 1 cppally_na_count(x)   1.28ms   1.33ms      746.        0B        0
+#> 1 cppally_na_count(x)   1.01ms   1.01ms      983.        0B        0
 ```
 
 Counting values is a simple operation and because of its simplicity, the
@@ -302,7 +302,7 @@ mark(cppally_fast_na_count(x))
 #> # A tibble: 1 × 6
 #>   expression                    min   median `itr/sec` mem_alloc `gc/sec`
 #>   <bch:expr>               <bch:tm> <bch:tm>     <dbl> <bch:byt>    <dbl>
-#> 1 cppally_fast_na_count(x)   54.7µs   55.3µs    17739.        0B        0
+#> 1 cppally_fast_na_count(x)   31.9µs   55.7µs    17827.        0B        0
 ```
 
 Looking at the benchmark results, we have effectively eliminated the
@@ -335,7 +335,7 @@ mark(cppally_fast_na_count_v2(x))
 #> # A tibble: 1 × 6
 #>   expression                       min   median `itr/sec` mem_alloc `gc/sec`
 #>   <bch:expr>                  <bch:tm> <bch:tm>     <dbl> <bch:byt>    <dbl>
-#> 1 cppally_fast_na_count_v2(x)   58.3µs   58.6µs    16630.        0B        0
+#> 1 cppally_fast_na_count_v2(x)   55.4µs   55.7µs    17655.        0B        0
 ```
 
 The results are similar to that of `cppally_fast_na_count()`.

diff --git a/articles/vector_name_hashing.md b/articles/vector_name_hashing.md
@@ -68,12 +68,12 @@ mark(large[[1]])
 #> # A tibble: 1 × 6
 #>   expression      min   median `itr/sec` mem_alloc `gc/sec`
 #>   <bch:expr> <bch:tm> <bch:tm>     <dbl> <bch:byt>    <dbl>
-#> 1 large[[1]]    122ns    133ns  6338882.        0B     634.
+#> 1 large[[1]]   89.9ns    101ns  8148891.        0B     815.
 mark(large[[length(large)]])
 #> # A tibble: 1 × 6
 #>   expression                  min   median `itr/sec` mem_alloc `gc/sec`
 #>   <bch:expr>             <bch:tm> <bch:tm>     <dbl> <bch:byt>    <dbl>
-#> 1 large[[length(large)]]    204ns    216ns  4005935.        0B        0
+#> 1 large[[length(large)]]    160ns    181ns  4719567.        0B        0
 ```
 
 Since R scans the names each time, lookup by name is O(n) and can be
@@ -88,8 +88,8 @@ mark(
 #> # A tibble: 2 × 6
 #>   expression      min   median `itr/sec` mem_alloc `gc/sec`
 #>   <bch:expr> <bch:tm> <bch:tm>     <dbl> <bch:byt>    <dbl>
-#> 1 by_name       138ns    149ns  5616387.        0B     562.
-#> 2 by_index      126ns    140ns  6285018.        0B       0
+#> 1 by_name       100ns    120ns  7085576.        0B     709.
+#> 2 by_index       90ns    101ns  8276457.        0B       0
 
 mark(
     by_name = large[["name_100000"]], 
@@ -98,8 +98,8 @@ mark(
 #> # A tibble: 2 × 6
 #>   expression      min   median `itr/sec` mem_alloc `gc/sec`
 #>   <bch:expr> <bch:tm> <bch:tm>     <dbl> <bch:byt>    <dbl>
-#> 1 by_name       528µs    547µs     1815.        0B        0
-#> 2 by_index      126ns    139ns  6444368.        0B        0
+#> 1 by_name       462µs    468µs     2128.        0B        0
+#> 2 by_index       90ns    110ns  7634232.        0B        0
 ```
 
 If we created a hash table of names-values, we could speedup repeated
@@ -131,9 +131,9 @@ mark(
 #> # A tibble: 3 × 6
 #>   expression          min   median `itr/sec` mem_alloc `gc/sec`
 #>   <bch:expr>     <bch:tm> <bch:tm>     <dbl> <bch:byt>    <dbl>
-#> 1 by_name           530µs    550µs     1803.        0B        0
-#> 2 by_index          126ns    139ns  6023556.        0B        0
-#> 3 by_hashed_name    795ns    847ns   860662.        0B        0
+#> 1 by_name         461.4µs    468µs     2129.        0B        0
+#> 2 by_index         89.9ns    110ns  8135640.        0B        0
+#> 3 by_hashed_name    651ns    701ns   949946.        0B        0
 ```
 
 That worked! Extracting the value associated with the last name using
@@ -293,8 +293,8 @@ mark(
 #> # A tibble: 2 × 6
 #>   expression              min   median `itr/sec` mem_alloc `gc/sec`
 #>   <bch:expr>         <bch:tm> <bch:tm>     <dbl> <bch:byt>    <dbl>
-#> 1 cppally_one_lookup   31.5µs   32.6µs    29662.        0B        0
-#> 2 base_one_lookup     532.5µs  554.8µs     1793.    21.6KB        0
+#> 1 cppally_one_lookup     29µs   29.6µs    32697.        0B        0
+#> 2 base_one_lookup       438µs    450µs     2199.    21.6KB        0
 ```
 
 While I’m not sure why cppally’s linear scan is faster than R’s, it may

diff --git a/reference/cpp_source.md b/reference/cpp_source.md
@@ -243,13 +243,13 @@ mark(last_altrep_aware(1:10^5)) # No materialisation
 #> # A tibble: 1 × 13
 #>   expression      min median `itr/sec` mem_alloc `gc/sec` n_itr  n_gc total_time
 #>   <bch:expr>   <bch:> <bch:>     <dbl> <bch:byt>    <dbl> <int> <dbl>   <bch:tm>
-#> 1 last_altrep… 3.71µs 4.64µs   208803.    3.18KB        0 10000     0     47.9ms
+#> 1 last_altrep… 2.98µs  4.4µs   222343.    3.18KB        0 10000     0       45ms
 #> # ℹ 4 more variables: result <list>, memory <list>, time <list>, gc <list>
 mark(last_altrep_unaware(1:10^5)) # Materialises full vector
 #> # A tibble: 1 × 13
 #>   expression      min median `itr/sec` mem_alloc `gc/sec` n_itr  n_gc total_time
 #>   <bch:expr>   <bch:> <bch:>     <dbl> <bch:byt>    <dbl> <int> <dbl>   <bch:tm>
-#> 1 last_altrep… 47.6µs 52.2µs    16071.     391KB     127.  3668    29      228ms
+#> 1 last_altrep… 31.2µs 31.9µs    26057.     391KB     207.  4159    33      160ms
 #> # ℹ 4 more variables: result <list>, memory <list>, time <list>, gc <list>
 
 ### Copy-on-modify ###
@@ -285,7 +285,7 @@ mark(reverse(x)) # Memory allocated, therefore x was copied before reversing
 #> # A tibble: 1 × 13
 #>   expression      min median `itr/sec` mem_alloc `gc/sec` n_itr  n_gc total_time
 #>   <bch:expr> <bch:tm> <bch:>     <dbl> <bch:byt>    <dbl> <int> <dbl>   <bch:tm>
-#> 1 reverse(x)    380µs  499µs     2105.     391KB     18.7   786     7      373ms
+#> 1 reverse(x)    342µs  372µs     2600.     391KB     21.4  1215    10      467ms
 #> # ℹ 4 more variables: result <list>, memory <list>, time <list>, gc <list>
 
 # The cppally preferred approach is to allocate a fresh vector or copy the
@@ -310,11 +310,11 @@ mark(
   cppally_no_copy_on_modify_reverse = cppally_reverse(x)
 )
 #> # A tibble: 3 × 13
-#>   expression      min median `itr/sec` mem_alloc `gc/sec` n_itr  n_gc total_time
-#>   <bch:expr>  <bch:t> <bch:>     <dbl> <bch:byt>    <dbl> <int> <dbl>   <bch:tm>
-#> 1 r_reverse   227.5µs  239µs     4004.     781KB     62.8  1340    21      335ms
-#> 2 cppally_co… 379.9µs  399µs     2306.     391KB     17.2  1072     8      465ms
-#> 3 cppally_no…  77.6µs  194µs     5747.     391KB     45.8  2258    18      393ms
+#>   expression     min  median `itr/sec` mem_alloc `gc/sec` n_itr  n_gc total_time
+#>   <bch:expr> <bch:t> <bch:t>     <dbl> <bch:byt>    <dbl> <int> <dbl>   <bch:tm>
+#> 1 r_reverse  177.6µs 186.3µs     5141.     781KB     83.8  1473    24      287ms
+#> 2 cppally_c… 341.4µs 371.8µs     2666.     391KB     19.1  1257     9      471ms
+#> 3 cppally_n…  58.2µs  62.4µs     9211.     391KB     73.6  3628    29      394ms
 #> # ℹ 4 more variables: result <list>, memory <list>, time <list>, gc <list>
 # }
 ```

diff --git a/articles/cppally.md b/articles/cppally.md
@@ -1384,8 +1384,8 @@ mark(
 #> # A tibble: 2 × 6
 #>   expression            min   median `itr/sec` mem_alloc `gc/sec`
 #>   <bch:expr>       <bch:tm> <bch:tm>     <dbl> <bch:byt>    <dbl>
-#> 1 base_n_unique      1.11ms   1.15ms      867.    1.38MB     25.5
-#> 2 cppally_n_unique 257.15µs 262.77µs     3767.        0B      0
+#> 1 base_n_unique       928µs   1.09ms      926.    1.38MB     25.5
+#> 2 cppally_n_unique    239µs 240.23µs     4108.        0B      0
 ```
 
 More useful sugar functions